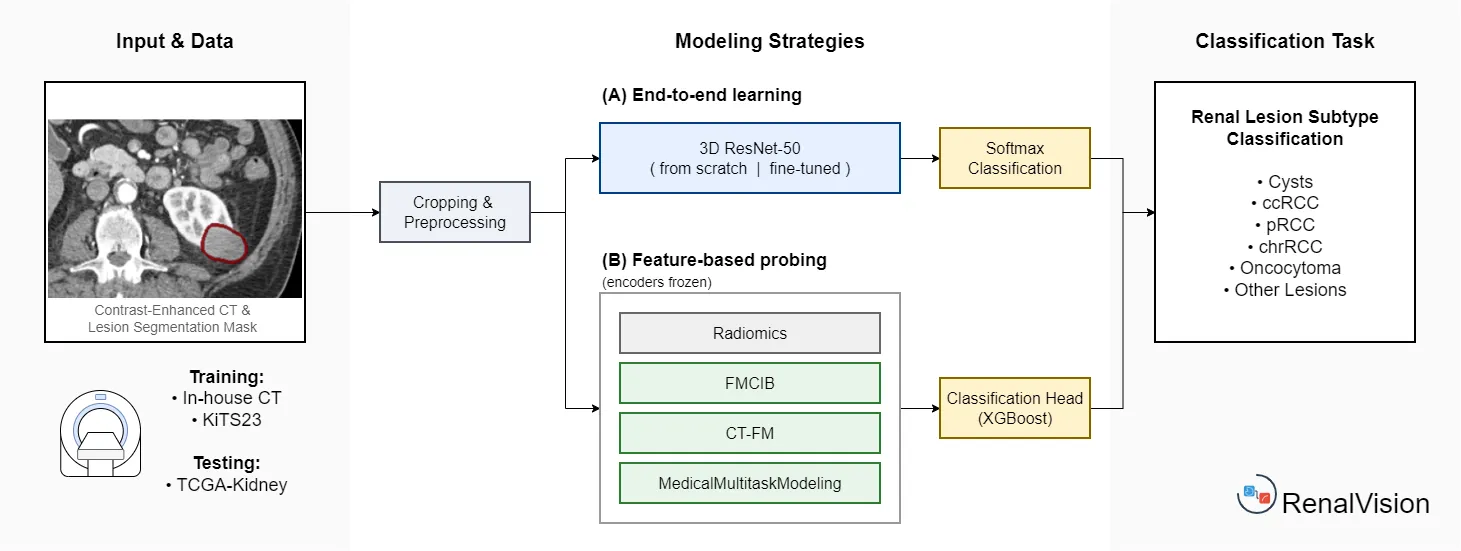
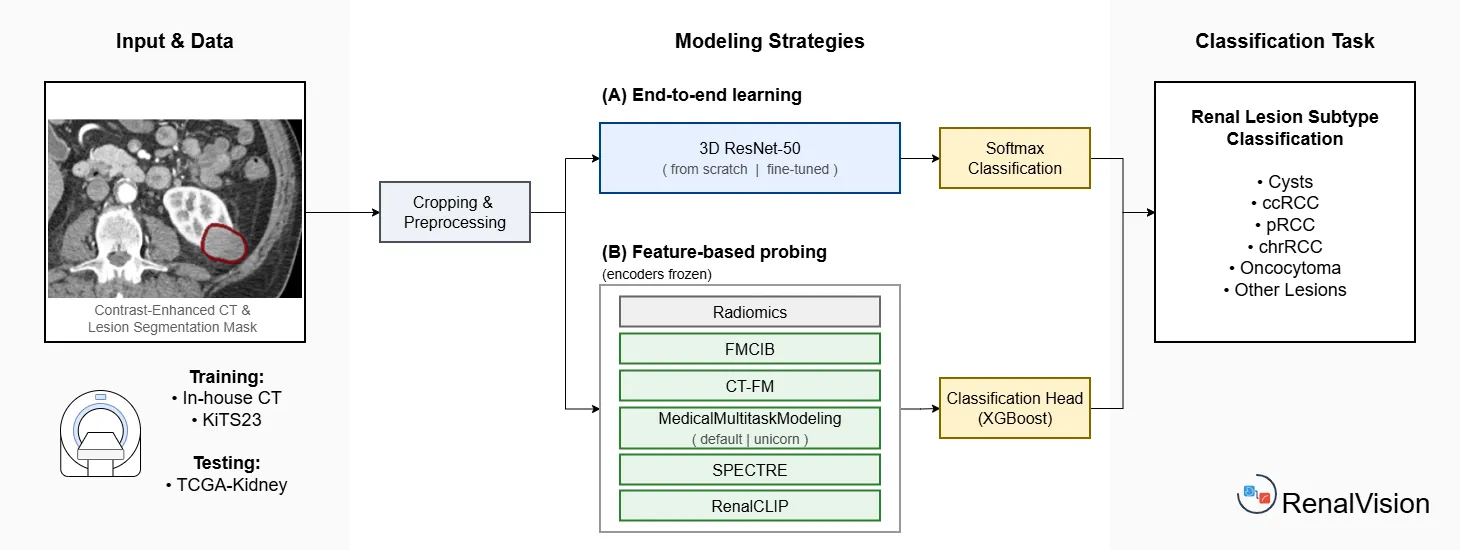
Include models in Readme
- add model figures to bundle descriptions
- add preprint badge
- fix file trailing end issue

diff --git a/readme.md b/readme.md
@@ -12,11 +12,12 @@
 <a href="https://www.comfort-ai.eu/for-patients/kidney-cancer">
   <img alt="website" src="https://img.shields.io/badge/Website-COMFORT-darkblue.svg"></a>
 <a href="https://github.com/astral-sh/ruff"><img alt="Code style: ruff" src="https://img.shields.io/endpoint?url=https://raw.githubusercontent.com/astral-sh/ruff/main/assets/badge/v2.json"></a>
+<a href="https://arxiv.org/abs/2605.07749"><img alt="Preprint" src="https://img.shields.io/badge/Preprint-arXiv-b31b1b"></a>
 
 </div>
 
 RenalVision is a modular platform for quantifying and classifying renal lesions. It keeps feature extraction (Radiomics, Neural Embeddings) cleanly separated from model training and evaluation, so swapping in a different backbone or classifier is straightforward. Trained models are packaged as self-contained bundles that carry their own preprocessing config and class mappings, making inference portable and reproducible.
-The platform ships with five pre-trained models out of the box: `radiomics_binary`, `radiomics`, `mevis`, `fmcib`, and `ctfm`. Read more about the bundles in their [readme.md](src/renal_vision/bundles/readme.md).
+The platform ships with eight pre-trained models out of the box: `radiomics_binary`, `radiomics`, `mevis`, `mevis_unicorn`, `fmcib`, `ctfm`, `spectre`, and `renalclip`. Read more about the bundles in their [readme.md](src/renal_vision/bundles/readme.md).
 
 ![Workflow](images/workflow.webp)
 
@@ -53,9 +54,7 @@ predictor = LesionPredictor(model_identifier="RADIOMICS_BINARY")
 
 # 2. Predict full mask (multi-lesion)
 mask = predictor.infer_mask(
-    image="scan.nii.gz",
-    seg="full_mask.nii.gz",
-    output_path="predictions.nii.gz"
+    image="scan.nii.gz", seg="full_mask.nii.gz", output_path="predictions.nii.gz"
 )
 
 # 3. Predict a single lesion
@@ -72,6 +71,12 @@ print(result)
   'volume': 8726                    # volume of target lesions in mm^3
  }
 ```
+
+## 🔧 Useful Tools from our Lab:
+
+- Automatic segmentation of kidneys and masses: [RenalNet](https://github.com/DIAGNijmegen/oncology-kidney-abnormality-segmentation)
+- Pre-annotated TCGA kidney tumour data: [RCC-AID](https://zenodo.org/records/20719257)
+
 
 
 ## 📦 Demo Workflow
@@ -91,9 +96,11 @@ Alternatively, test our own model directly on the KiTS data: [Demo.ipynb](notebo
 
 
 ## 📋 Citation
-Paper under Review.
+Paper under Review. Please cite this preprint: [arXiv](https://arxiv.org/abs/2605.07749).
 
-If you used any of the FM based classifiers in you research please refer to their GitHub for citation guidelines:
-[FMCIB](https://github.com/AIM-Harvard/foundation-cancer-image-biomarker),
-[CTFM](https://github.com/project-lighter/CT-FM), and
-[MMM](https://github.com/FraunhoferMEVIS/MedicalMultitaskModeling).
+If you used any of the FM based classifiers in your research please refer to their GitHub for citation guidelines:
+- [FMCIB](https://github.com/AIM-Harvard/foundation-cancer-image-biomarker)
+- [CTFM](https://github.com/project-lighter/CT-FM)
+- [MMM](https://github.com/FraunhoferMEVIS/MedicalMultitaskModeling)
+- [SPECTRE](https://github.com/cclaess/SPECTRE)
+- [RenalCLIP](https://github.com/dt-yuhui/RenalCLIP)

diff --git a/src/renal_vision/bundles/readme.md b/src/renal_vision/bundles/readme.md
@@ -17,7 +17,7 @@ from renal_vision.bundles import ImplementedModels
 predictor1 = LesionPredictor(model_identifier=ImplementedModels.RADIOMICS_BINARY)
 
 # Or just pass the string directly
-predictor2 =  LesionPredictor(model_identifier="RADIOMICS_BINARY")
+predictor2 = LesionPredictor(model_identifier="RADIOMICS_BINARY")
 ```
 
 ### 1. Radiomics based Tumor/Cyst classifier
@@ -45,6 +45,13 @@ Classes:
   <img src="radiomics/cv_pr_curve.webp" alt="Description of Image 3" width="30%">
 </div>
 
+- identifier: **MEVIS_UNICORN**
+<div align="center">
+  <img src="mevis_unicorn/cv_confusion_matrix.webp" alt="Description of Image 1" width="30%">
+  <img src="mevis_unicorn/cv_roc_curve.webp" alt="Description of Image 2" width="30%">
+  <img src="mevis_unicorn/cv_pr_curve.webp" alt="Description of Image 3" width="30%">
+</div>
+
 - identifier: **MEVIS**
 <div align="center">
   <img src="mevis/cv_confusion_matrix.webp" alt="Description of Image 1" width="30%">
@@ -64,4 +71,18 @@ Classes:
   <img src="ctfm/cv_confusion_matrix.webp" alt="Description of Image 1" width="30%">
   <img src="ctfm/cv_roc_curve.webp" alt="Description of Image 2" width="30%">
   <img src="ctfm/cv_pr_curve.webp" alt="Description of Image 3" width="30%">
+</div>
+
+- identifier: **RENALCLIP**
+<div align="center">
+  <img src="renalclip/cv_confusion_matrix.webp" alt="Description of Image 1" width="30%">
+  <img src="renalclip/cv_roc_curve.webp" alt="Description of Image 2" width="30%">
+  <img src="renalclip/cv_pr_curve.webp" alt="Description of Image 3" width="30%">
+</div>
+
+- identifier: **SPECTRE**
+<div align="center">
+  <img src="spectre/cv_confusion_matrix.webp" alt="Description of Image 1" width="30%">
+  <img src="spectre/cv_roc_curve.webp" alt="Description of Image 2" width="30%">
+  <img src="spectre/cv_pr_curve.webp" alt="Description of Image 3" width="30%">
 </div>
